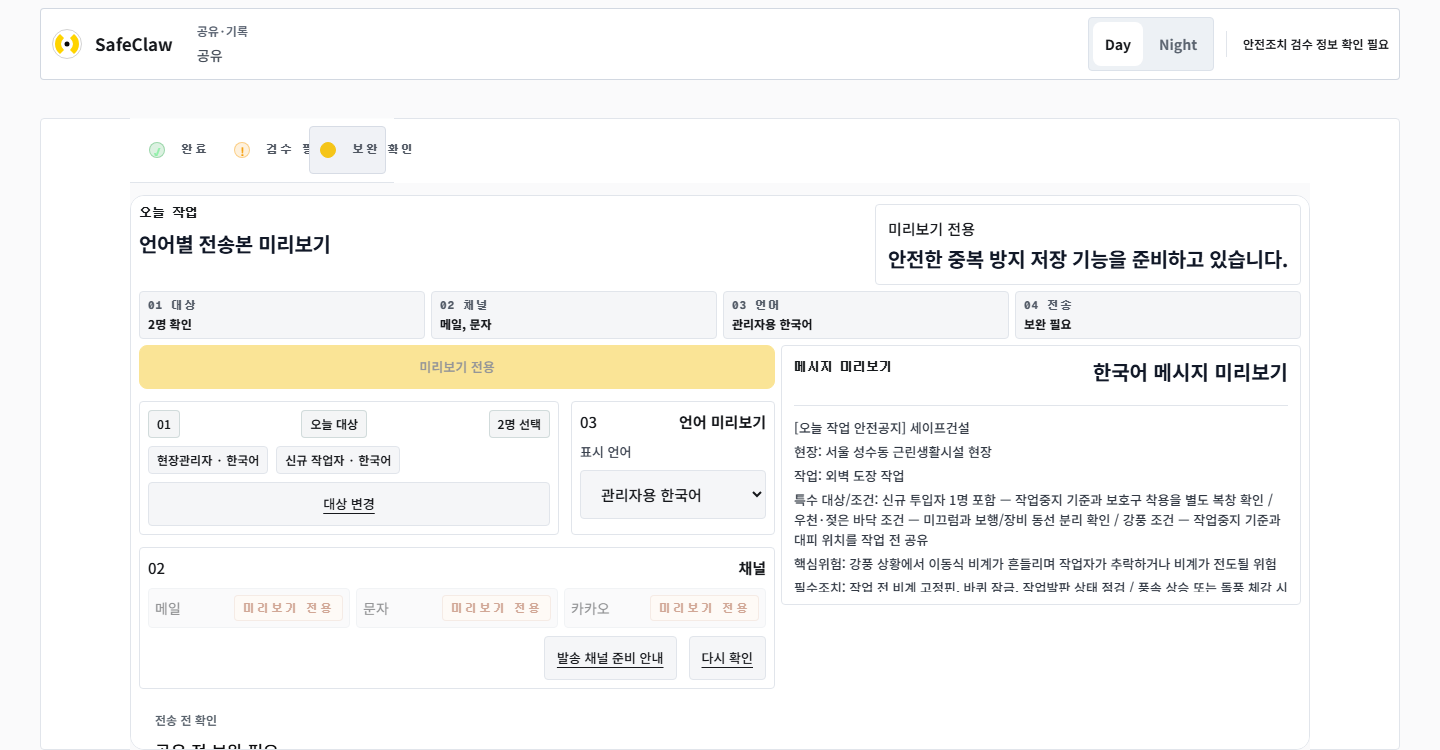
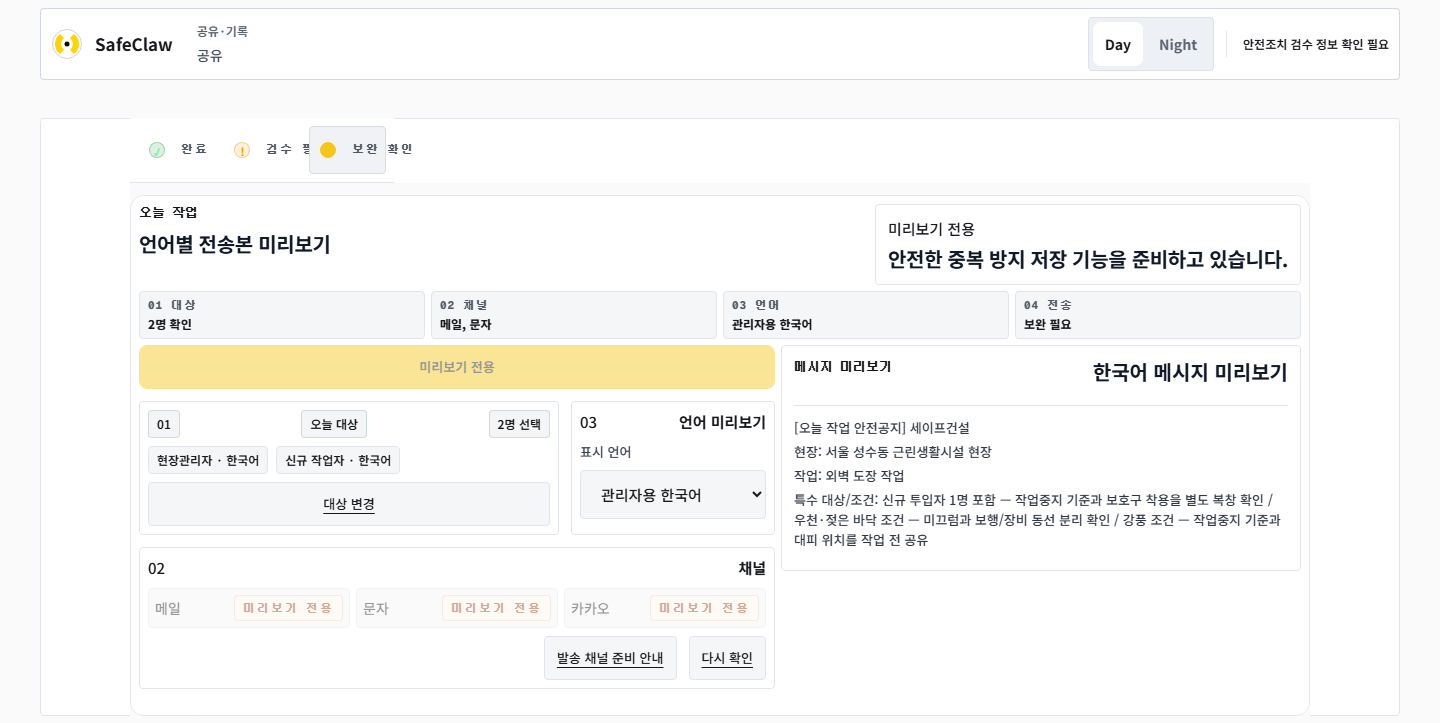
chore: record short desktop cockpit live evidence

diff --git a/evaluation/short-desktop-doc-share-live-2026-07-21/report.md b/evaluation/short-desktop-doc-share-live-2026-07-21/report.md
@@ -1,0 +1,43 @@
+# Short Desktop Documents/Share Live Evidence
+
+- Verdict: `PASS_LIVE_PRODUCTION`
+- Product commit: `db6ac612b8ba4d83000d31b7f4f35d2bb66ffa6b`
+- Evidence commit prepared from: `0ccefc57`
+- Checked at: `2026-07-21T02:10:00+09:00`
+- Scope: `/workspace` generated Documents and Share cockpit at `1440x723`.
+
+## Product Contract
+
+Splitting the workflow into pages is not sufficient by itself. Documents and Share must first render as a viewport-bounded cockpit. Long document bodies, translated messages, and provider/result detail stay available through explicit drilldown or bounded internal panels instead of making the default step a long page.
+
+## Live Production Geometry
+
+Command:
+
+`SAFECLAW_BASE_URL=https://www.safeclaw.kr node evaluation\workspace-docs-share-production-gate-2026-07-20\run-current-geometry-probe.mjs`
+
+Live `/api/build-info`:
+
+- `commitSha`: `db6ac612b8ba4d83000d31b7f4f35d2bb66ffa6b`
+- `branch`: `master`
+- `environment`: `production`
+
+Desktop-short `1440x723`:
+
+| Surface | Body height | Primary root bottom | Preview/CTA bottom | Overflow |
+|---|---:|---:|---:|---|
+| Documents | `723 / 723 = 1.00x` | workbench `710` | secondary actions `699` | x `false`, outside `0` |
+| Share | `723 / 723 = 1.00x` | share root `716` | preview `571`, CTA `389` | x `false`, outside `0` |
+
+## Verification
+
+- `npm.cmd test -- tests\workspace-layout-regression.test.ts --maxWorkers=1 --fileParallelism=false --hookTimeout=180000` -> PASS, 29 passed / 1 skipped
+- `npm.cmd test -- tests\workspace-share-mobile-browser.test.ts --maxWorkers=1 --fileParallelism=false --hookTimeout=180000` -> PASS, 4 passed
+- `npm.cmd test -- tests\workspace-share-simplification.test.ts --maxWorkers=1 --fileParallelism=false` -> PASS, 11 passed
+- `npm.cmd run typecheck` -> PASS
+- `npm.cmd run build` -> PASS, 28/28 static pages
+
+## Remaining Boundaries
+
+- Provider live dispatch remains unclaimed and approval-gated.
+- Deep editor/detail drilldowns may intentionally scroll internally; the PASS claim is for default generated Documents/Share cockpits.
